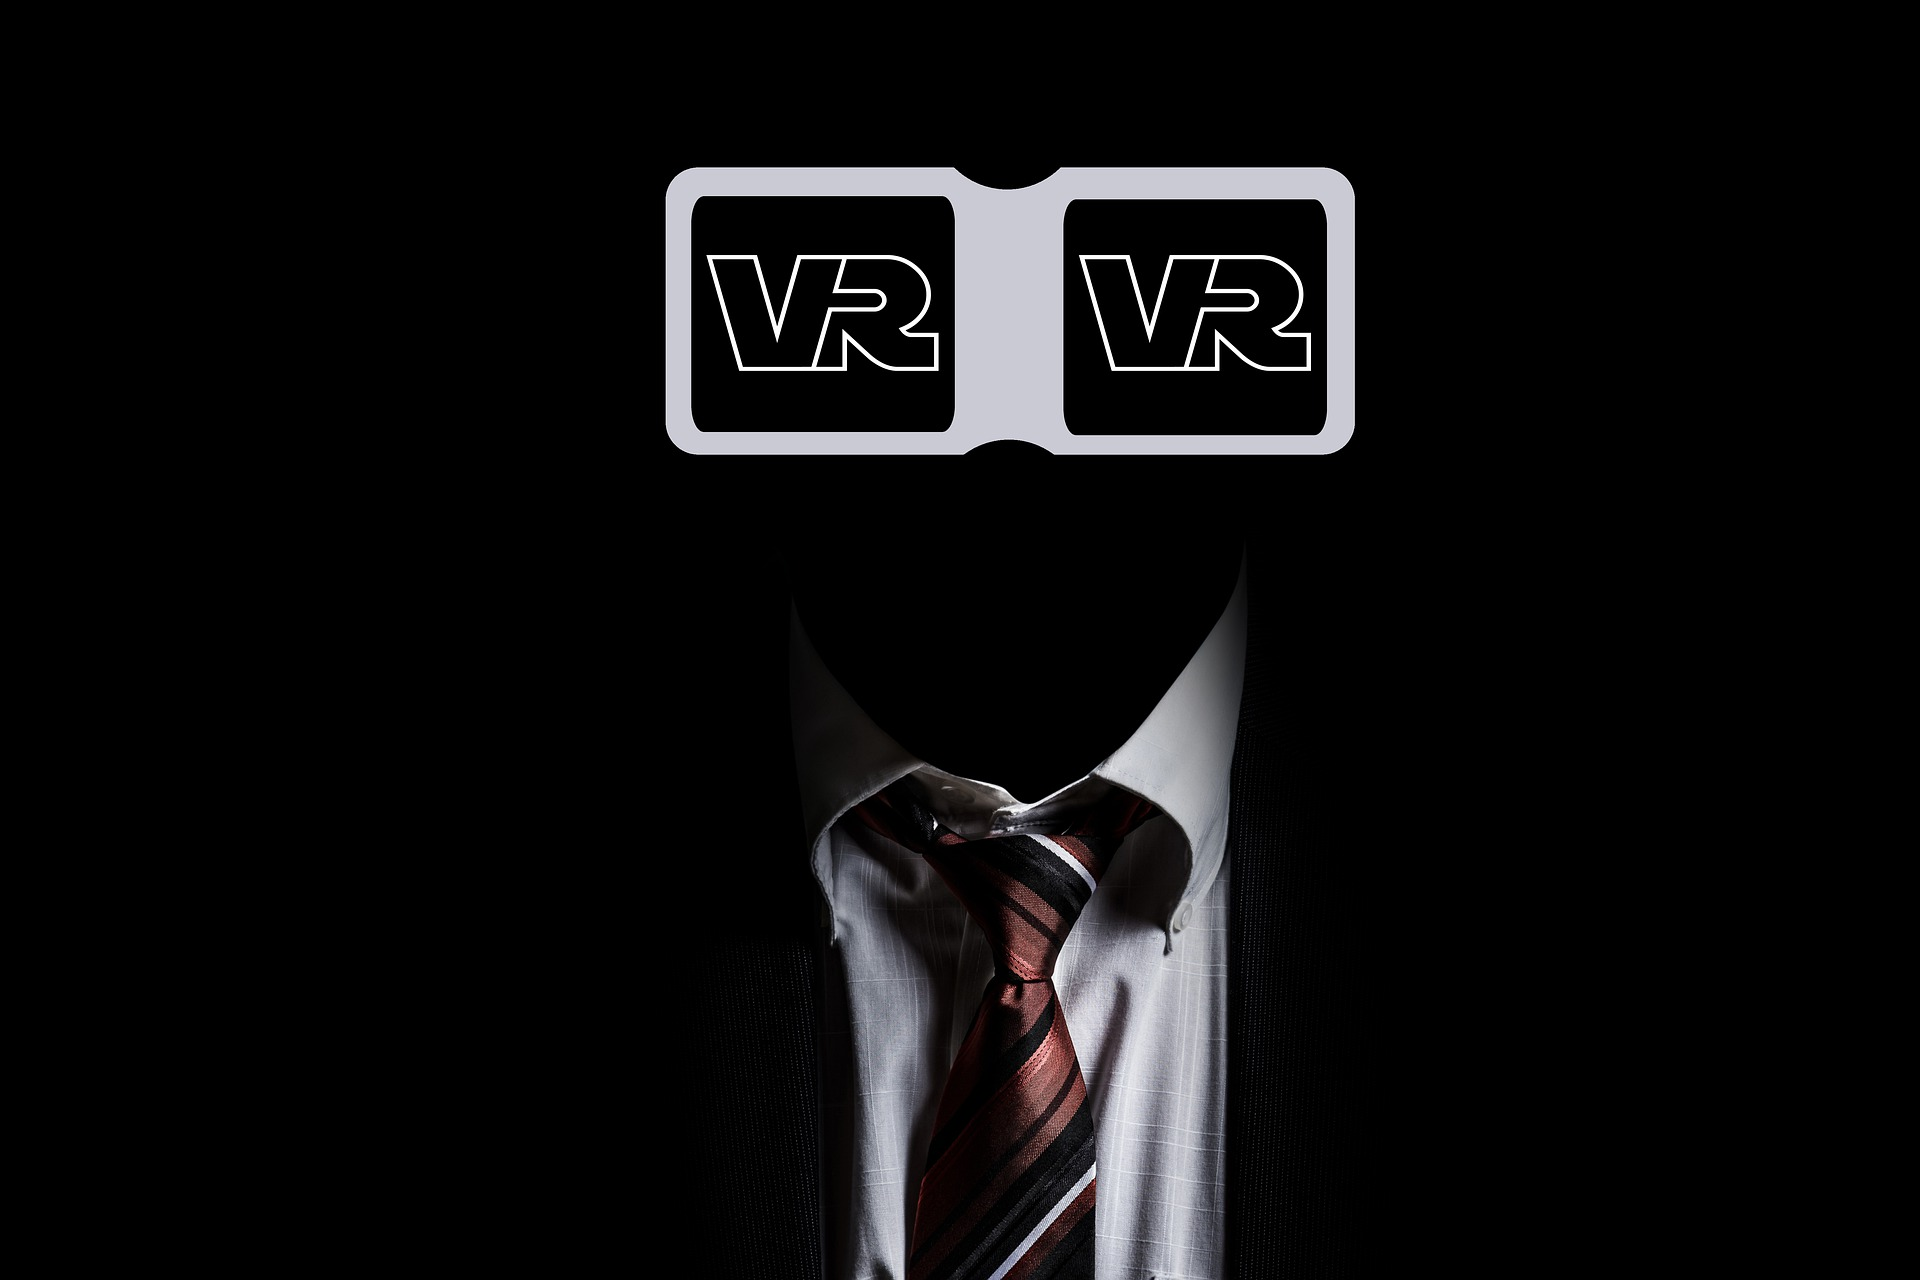
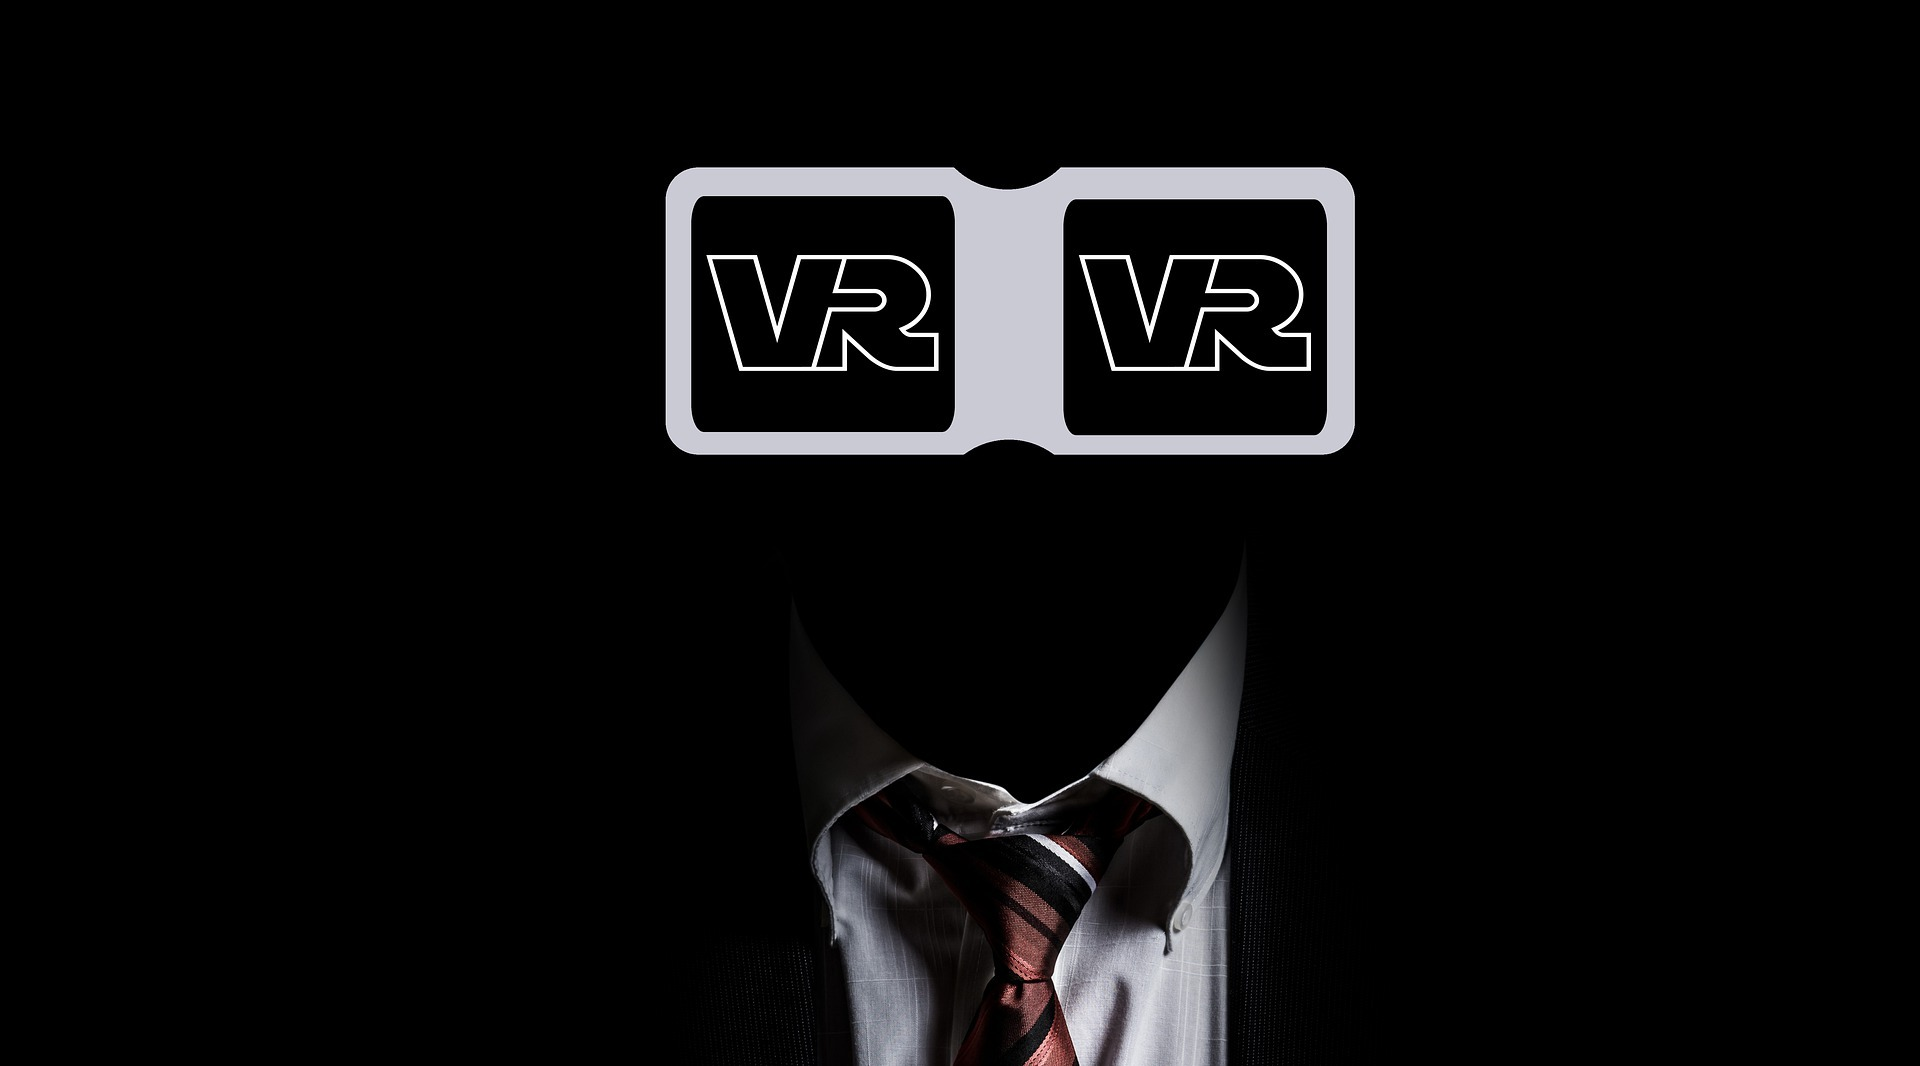
message

Changed region(s): [[0.4062, 0.4644, 0.6562, 1.0], [0.3438, 0.1238, 0.7188, 0.4334]]

diff --git a/src/styles/why.module.css b/src/styles/why.module.css
@@ -24,7 +24,7 @@
     z-index: 2;
     width: 100%;
     height: auto;
-    top: 1050px;
+    top: 950px;
     /* margin:"90px"; */
     /* border: 2px solid red; */
 }
